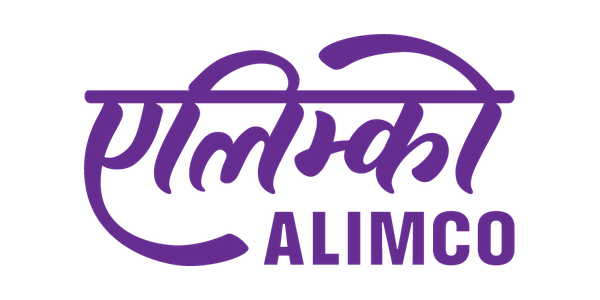
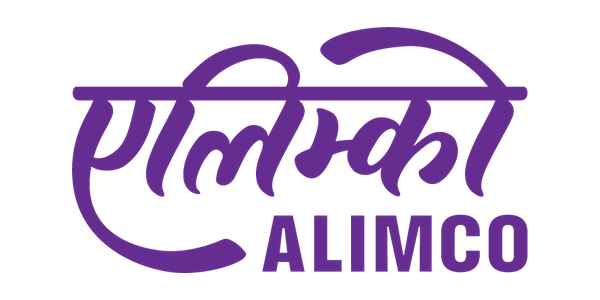
fix(ui): scale both attribution marks up ~50%, still matched
They were matched but small. Increased from two directions, because neither
alone gives much:

  canvas fill  56% -> 62%   (ink area 100,000 -> 112,000 px^2)
  box          h-12 w-32 -> h-14 w-36

The canvas headroom is nearly exhausted at 62%: Swavlamban is the taller mark
(1.27:1), so on a 600x300 canvas its height caps the usable area at ~114,300.
112,000 leaves about 2% margin. Any further growth has to come from the box or
a taller canvas, NOT from the fill.

On screen the ink goes 57x45 / 69x37 -> 70x55 / 85x46. Area 2,560 -> ~3,900,
+52%, and the two stay within 0.5% of each other. The 144px box fits the
sidebar card's ~199px inner width with room to spare.

Swavlamban is now upscaled 305x241 -> 376x297 (1.23x) from the low-res JPEG.
Acceptable at 55px tall, and another reason to regenerate both from vector art
when ALIMCO supplies it.

Claude-Session: https://claude.ai/code/session_01VTKzc8V1hUu2T3Vb4N1U5M

Changed region(s): [[0.12, 0.09, 0.9, 0.93], [0.42, 0.69, 0.9, 0.93], [0.51, 0.57, 0.54, 0.6]]

diff --git a/apps/ui/src/components/layout/sidebar-brand-footer.tsx b/apps/ui/src/components/layout/sidebar-brand-footer.tsx
@@ -58,7 +58,7 @@ function AttributionRow({ row, isDark }: Readonly<{ row: BrandAttribution; isDar
         // left them visibly different widths and the stack read as ragged.
         // `object-contain object-center` fits each inside identical bounds and
         // centres it, so the rows line up whatever artwork arrives later.
-        <img src={src} alt={row.name} className="h-12 w-32 object-contain object-center" />
+        <img src={src} alt={row.name} className="h-14 w-36 object-contain object-center" />
       ) : (
         <div className="flex items-center gap-2.5">
           <span
